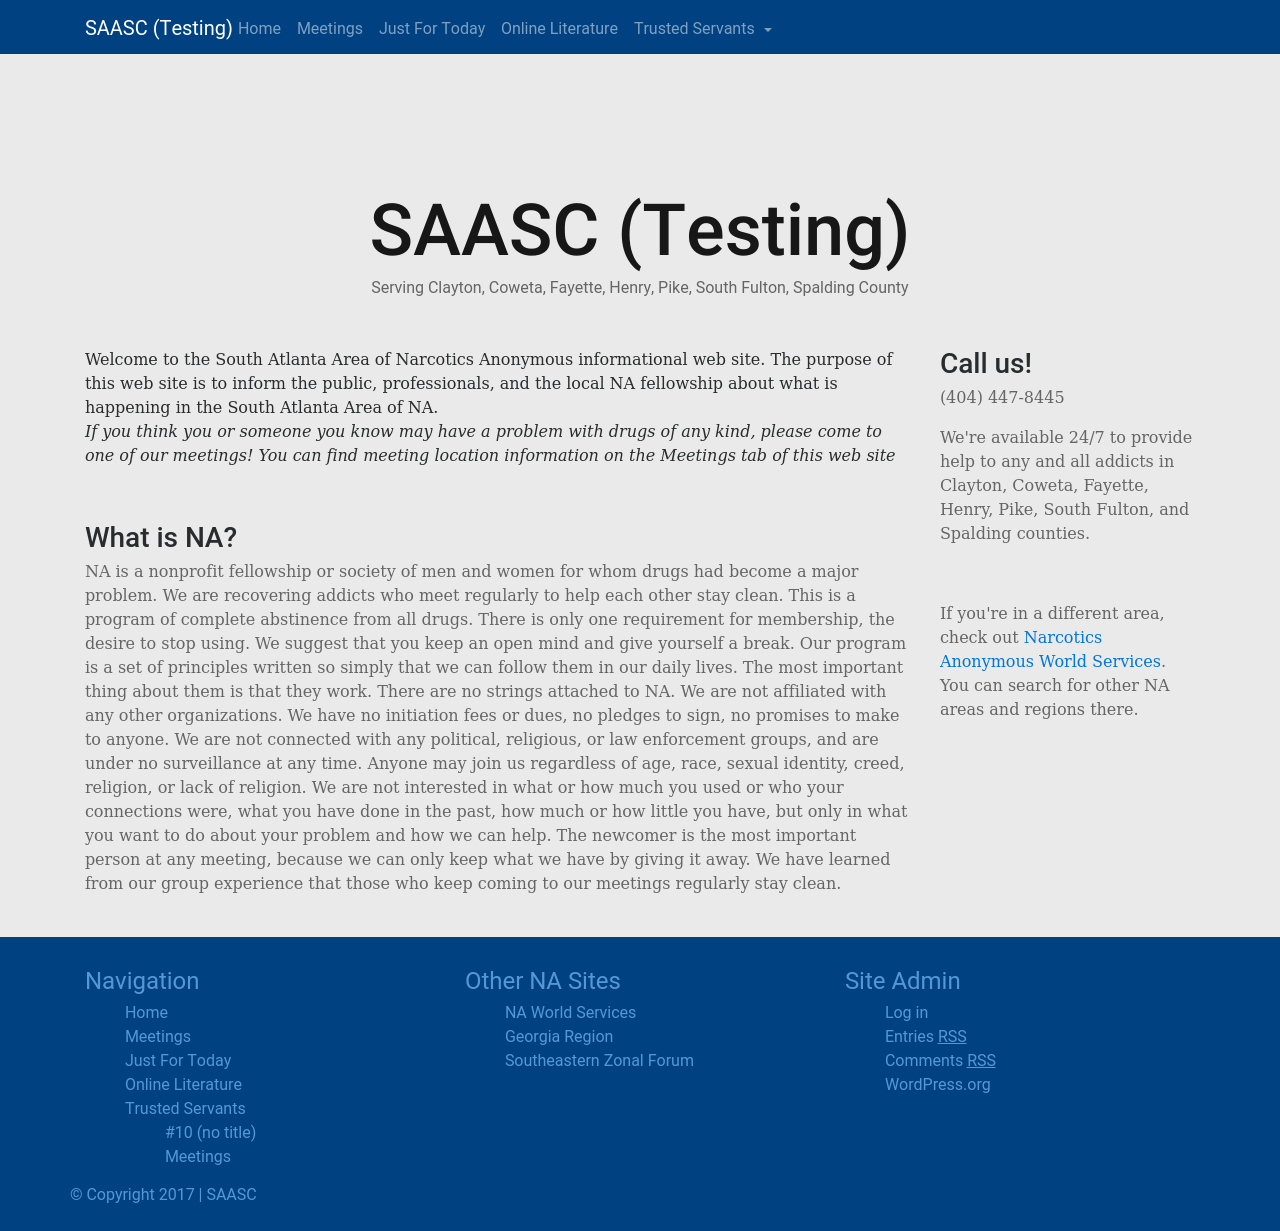
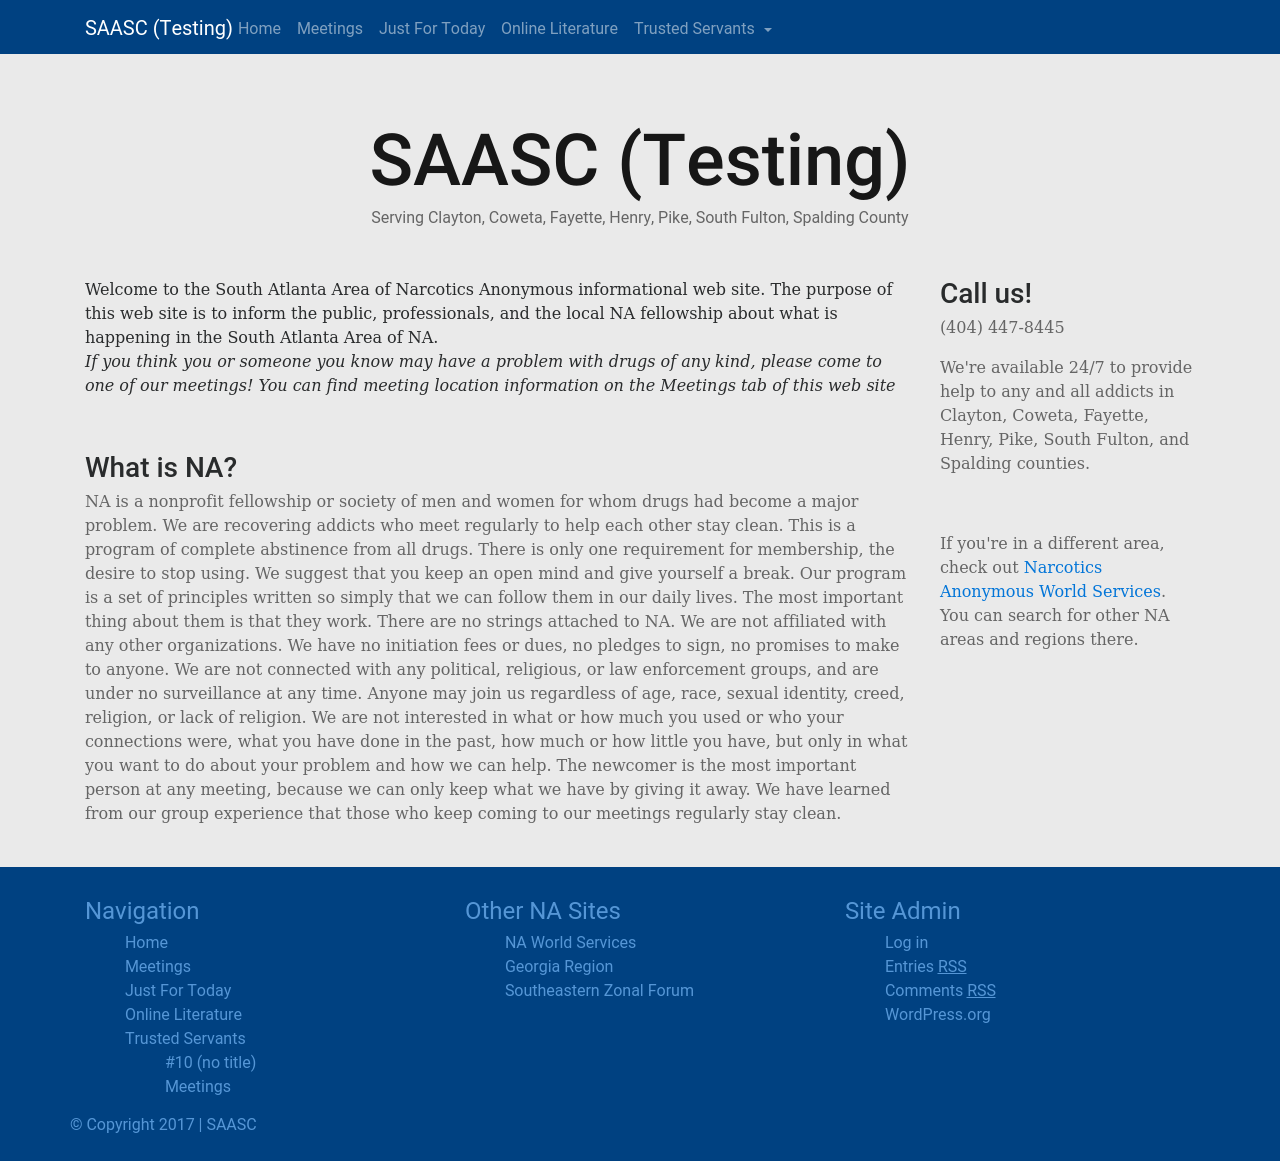
fix for mobile device nav dropdown

diff --git a/includes/stylesheets/main.css b/includes/stylesheets/main.css
@@ -48,8 +48,23 @@ p {
 .navbar-custom .nav-link {
   color: rgba(255, 255, 255, 0.5);
 }
+@media (max-width: 992px) {
+  .navbar-custom .dropdown.nav-item > .dropdown-menu {
+    border-radius: 0px;
+    border-width: 0px;
+    margin-left: 30px;
+    margin-top: 0px;
+    background-color: #004181;
+    padding: 0rem 0;
+  }
+}
 .navbar-custom .dropdown.nav-item > .dropdown-menu > .nav-item > .nav-link {
   color: #5596d6;
+}
+@media (max-width: 992px) {
+  .navbar-custom .dropdown.nav-item > .dropdown-menu > .nav-item > .nav-link {
+    color: rgba(255, 255, 255, 0.5);
+  }
 }
 
 .navbar-toggler-icon {
@@ -206,7 +221,7 @@ footer {
   }
 }
 .container-fullwidth.header {
-  padding-top: 70px;
+  padding-top: 0px;
 }
 
 /*# sourceMappingURL=main.css.map */

diff --git a/includes/stylesheets/above-the-fold.css b/includes/stylesheets/above-the-fold.css
@@ -37,8 +37,25 @@ p {
   color: rgba(255, 255, 255, 0.5);
 }
 
+@media (max-width: 992px) {
+  .navbar-custom .dropdown.nav-item > .dropdown-menu {
+    border-radius: 0px;
+    border-width: 0px;
+    margin-left: 30px;
+    margin-top: 0px;
+    background-color: #004181;
+    padding: 0rem 0;
+  }
+}
+
 .navbar-custom .dropdown.nav-item > .dropdown-menu > .nav-item > .nav-link {
   color: #5596d6;
+}
+
+@media (max-width: 992px) {
+  .navbar-custom .dropdown.nav-item > .dropdown-menu > .nav-item > .nav-link {
+    color: rgba(255, 255, 255, 0.5);
+  }
 }
 
 .navbar-toggler-icon {
@@ -114,5 +131,5 @@ body {
 }
 
 .container-fullwidth.header {
-  padding-top: 70px;
+  padding-top: 0px;
 }

diff --git a/includes/sass/main.scss b/includes/sass/main.scss
@@ -53,8 +53,21 @@ p {
     .nav-link {
         color: rgba(255,255,255,.5);
     }
+    .dropdown.nav-item>.dropdown-menu {
+        @media (max-width: 992px) {
+            border-radius: 0px;
+            border-width: 0px;
+            margin-left: 30px;
+            margin-top: 0px;
+            background-color: $dark-col;
+            padding: 0rem 0;
+        }
+    }
     .dropdown.nav-item>.dropdown-menu>.nav-item>.nav-link {
         color: #5596d6; 
+        @media (max-width: 992px) {
+            color: rgba(255,255,255,.5);
+        }
     }
 }
 
@@ -202,5 +215,5 @@ footer {
 
 // header container
 .container-fullwidth.header{
-  padding-top: 70px;
+  padding-top: 0px;
 }
